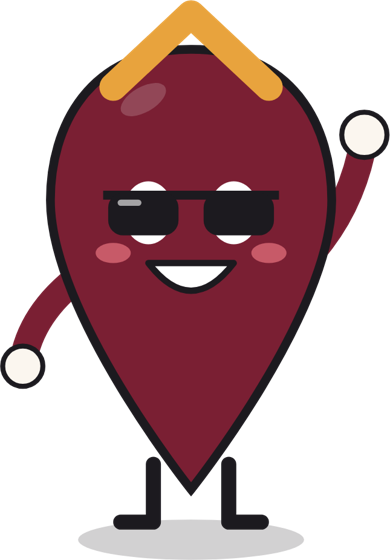
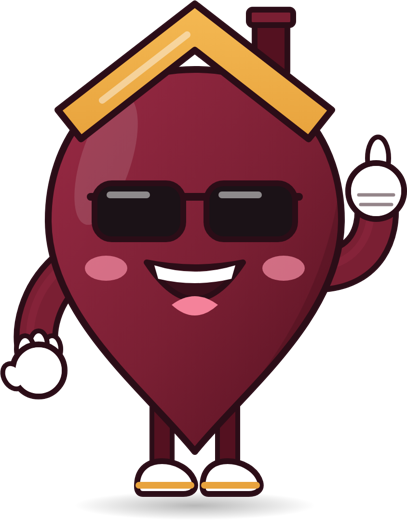
Finish Pinny mascot (new polished art) and add back to site layout-safely
Claude-Session: https://claude.ai/code/session_01TodVR2HKNXsusHhsrefNsy

Changed region(s): [[0.0, 0.0, 1.0, 1.0]]

diff --git a/site/style.css b/site/style.css
@@ -352,10 +352,14 @@ a[href$="→"],.tile>a:last-child{display:inline-block;padding:10px 0}
 
 /* ===== v7: plain wording, no mascot, purposeful motion (29 Oct 2026) ===== */
 .sr{position:absolute;left:-9999px;width:1px;height:1px;overflow:hidden}
-/* mascot removed from site pages */
-.page-hero::after,.hero.photo::after{display:none!important}
-.page-hero .wrap>*{max-width:none!important}
-.empty-pin img,.agent-band img{display:none}
+/* Pinny: shown only where there is room, never over text */
+.page-hero::after,.hero.photo::after{display:none}
+.home-hero{position:relative}
+@media(min-width:1240px){
+.hero.photo.home-hero::after{display:block;content:"";position:absolute;right:max(24px,calc(50% - 600px));bottom:84px;width:210px;height:278px;background:url(pinny-shades.png) no-repeat right bottom/contain;pointer-events:none;filter:drop-shadow(0 12px 16px rgba(0,0,0,.28))}
+}
+@media(min-width:1100px){.page-hero{position:relative}.page-hero::after{display:block;width:150px;height:200px;right:max(24px,calc(50% - 560px))}}
+.empty-pin img{display:block}
 /* centred hero */
 .center-hero{text-align:center}
 .center-hero h1{max-width:900px;margin:0 auto 20px;font-size:clamp(40px,6vw,76px)}
